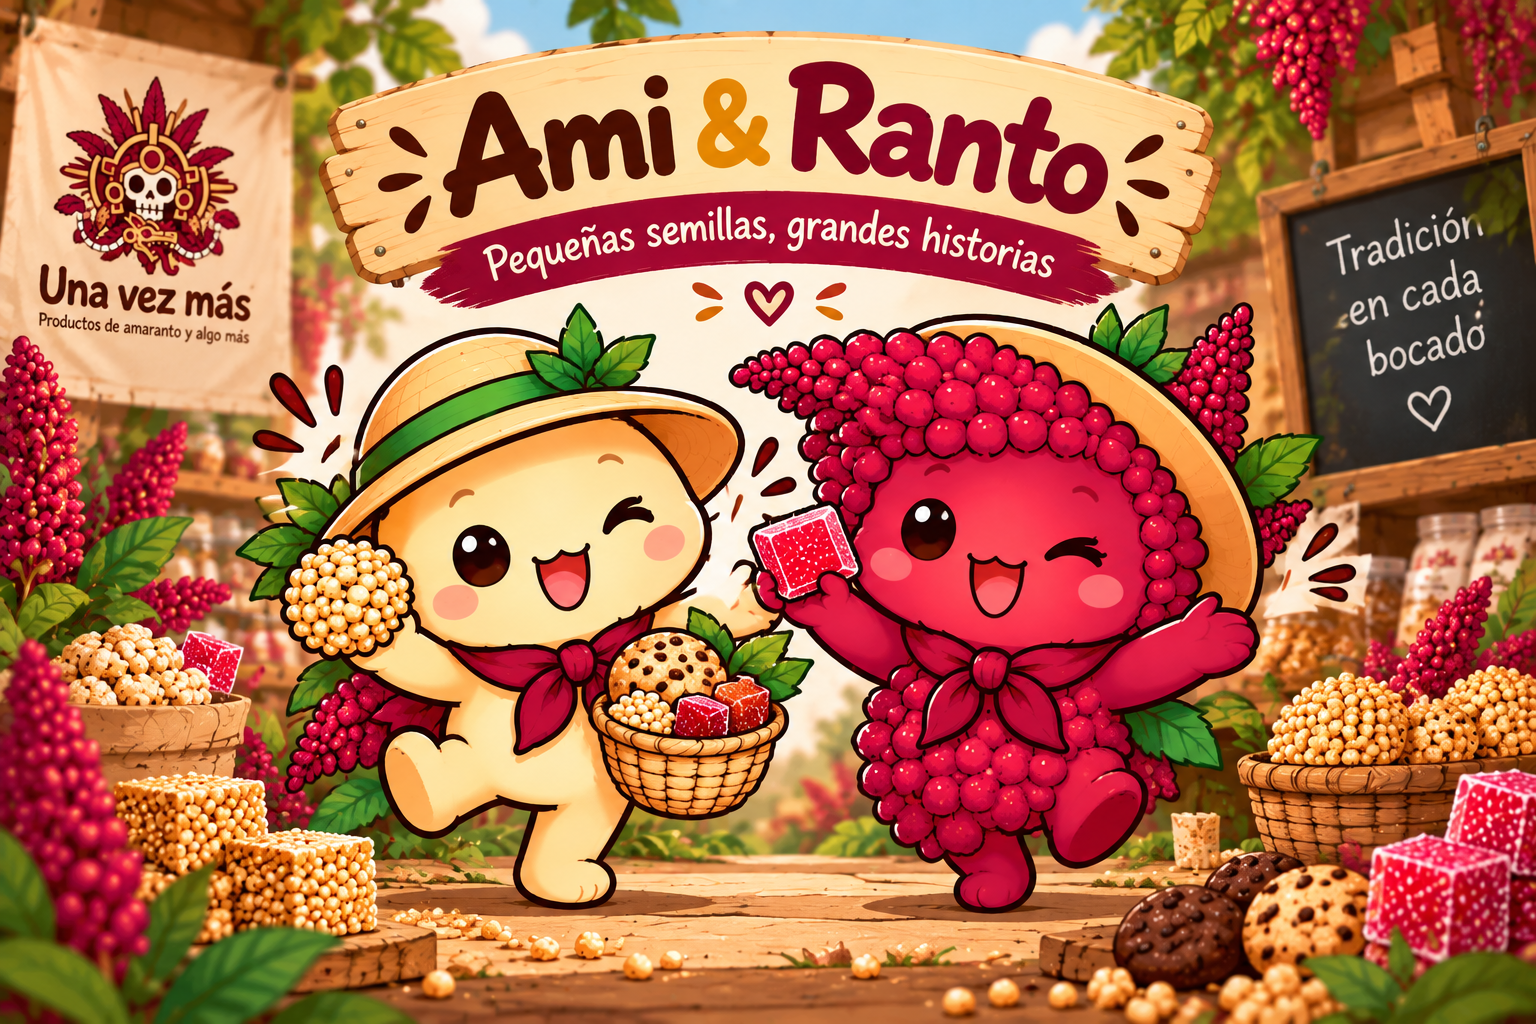
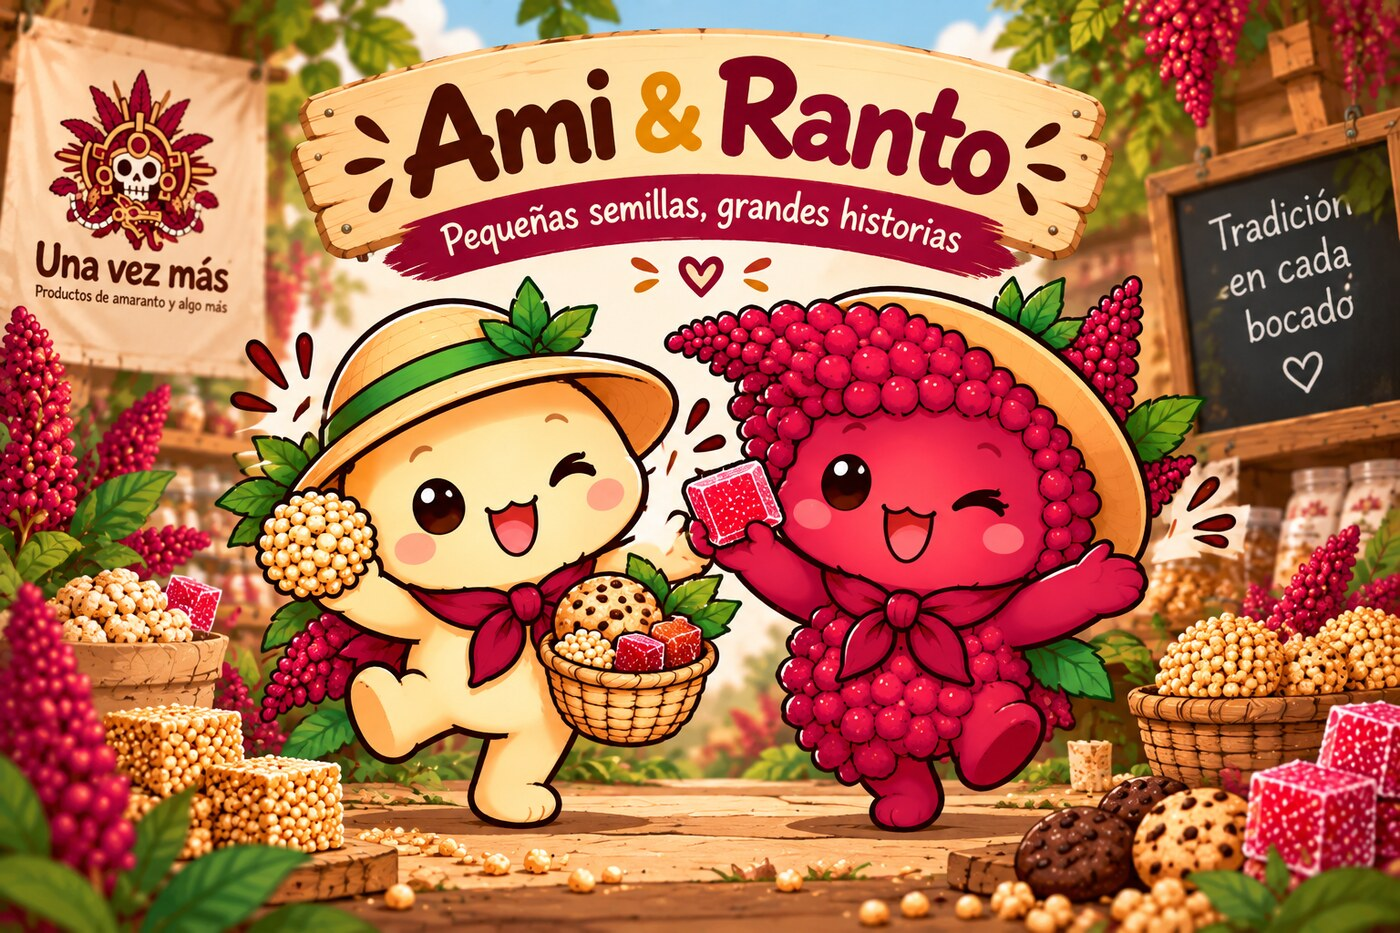
Procesar las imágenes de marca al tamaño que de verdad se usan
Las 6 imágenes nuevas eran PNG de 1536 px con extensión .jpg, entre 1.7
y 2.6 MB cada una: 15 MB en public/img y 20 MB en el sitio compilado. El
hero solo pesaba 2.6 MB y es lo primero que descarga quien llega de
Instagram o TikTok con datos móviles.

Se conserva el mismo arte, reescalado al doble de lo que se muestra en
pantalla (para pantallas retina) y convertido a JPEG real progresivo con
calidad 88. Ninguna tenía canal alfa, así que no se pierde transparencia.

  portada.jpg              1536 -> 1200 px    2.6 MB -> 324 KB
  ami-y-ranto.jpg          1536 -> 1400 px    2.4 MB -> 361 KB
  ami-ranto-canasta.jpg    1536 ->  900 px    2.5 MB -> 186 KB
  ami-ranto-canastas.jpg   1536 ->  700 px    2.6 MB -> 138 KB
  ranto.jpg                1536 ->  900 px    1.9 MB -> 113 KB
  ami.jpg                  1536 ->  900 px    1.7 MB -> 103 KB

public/img baja de 15 MB a 2.7 MB y el sitio compilado de 20 MB a 4.8
MB. Abrir /inicio ahora pesa 484 KB en total, hero incluido.

Se corrigen los width/height de las plantillas, que habían quedado con
las medidas del arte anterior y hacían que el navegador reservara una
caja con la proporción equivocada antes de cargar.

También se corrigen cuatro textos alternativos que describían el arte
viejo: el hero ya no es "sembrando en un campo de amaranto" sino un
puesto de mercado, y la imagen de Contacto muestra a una clienta
recibiendo un paquete, no a Ami y Ranto con una canasta.

diff --git a/src/app/pages/inicio/inicio.html b/src/app/pages/inicio/inicio.html
@@ -107,11 +107,11 @@
         >
           <div class="relative rounded-2xl overflow-hidden aspect-[16/10] bg-surface-container">
             <img
-              alt="Ami y Ranto, las mascotas de Una vez más, sembrando en un campo de amaranto junto a un letrero de madera que dice Una vez más"
+              alt="Ami y Ranto detrás de un puesto de mercado con bolsas de amaranto, alegrías y galletas, bajo el logotipo de Una vez más"
               class="w-full h-full object-cover transform hover:scale-105 transition-transform duration-700"
               decoding="async"
               fetchpriority="high"
-              height="737"
+              height="800"
               src="img/marca/portada.jpg"
               width="1200"
             />
@@ -453,13 +453,13 @@
           class="lg:col-span-7 rounded-2xl overflow-hidden bg-surface-container-high/60 shadow-inner p-2"
         >
           <img
-            alt="Hoja de personajes de Ami y Ranto: expresiones, poses y usos de la semilla y la flor de amaranto"
+            alt="Ami y Ranto junto al lema «Pequeñas semillas, grandes historias», entre espigas de amaranto y dulces"
             class="w-full h-auto rounded-xl object-contain"
             decoding="async"
-            height="1024"
+            height="933"
             loading="lazy"
             src="img/marca/ami-y-ranto.jpg"
-            width="1536"
+            width="1400"
           />
         </div>
 

diff --git a/src/app/pages/enlaces/enlaces.html b/src/app/pages/enlaces/enlaces.html
@@ -168,13 +168,13 @@
         ></div>
         <div class="w-full max-w-[320px] mb-3 flex items-center justify-center">
           <img
-            alt="Ami y Ranto de Una vez más con sus canastas de dulces de amaranto"
+            alt="Ami y Ranto detrás de un puesto de mercado con bolsas de amaranto, alegrías y galletas"
             class="w-full h-auto max-h-48 object-contain rounded-xl transition-transform duration-300 hover:scale-105"
             decoding="async"
-            height="666"
+            height="467"
             loading="lazy"
             src="img/mascotas/ami-ranto-canastas.jpg"
-            width="1000"
+            width="700"
           />
         </div>
         <p class="flex items-center gap-1.5 text-primary font-label-md text-label-md m-0">

diff --git a/src/app/pages/contacto/contacto.html b/src/app/pages/contacto/contacto.html
@@ -66,13 +66,13 @@
           class="absolute top-0 right-0 w-32 h-32 bg-primary-container/10 rounded-full blur-2xl"
         ></div>
         <img
-          alt="Ami y Ranto juntos, sosteniendo una canasta de mimbre llena de dulces tradicionales de amaranto"
+          alt="Una clienta recibe un paquete de manos de Ami y Ranto en el puesto de Una vez más"
           class="w-full h-64 sm:h-72 object-contain drop-shadow-md rounded-2xl"
           decoding="async"
-          height="545"
+          height="600"
           loading="lazy"
           src="img/mascotas/ami-ranto-canasta.jpg"
-          width="1000"
+          width="900"
         />
         <div class="mt-space-sm flex flex-col items-center">
           <p

diff --git a/src/app/pages/nosotros/nosotros.html b/src/app/pages/nosotros/nosotros.html
@@ -231,7 +231,7 @@
             <img
               class="w-full h-full object-contain"
               decoding="async"
-              height="491"
+              height="600"
               loading="lazy"
               width="900"
               [alt]="mascota.alt"
